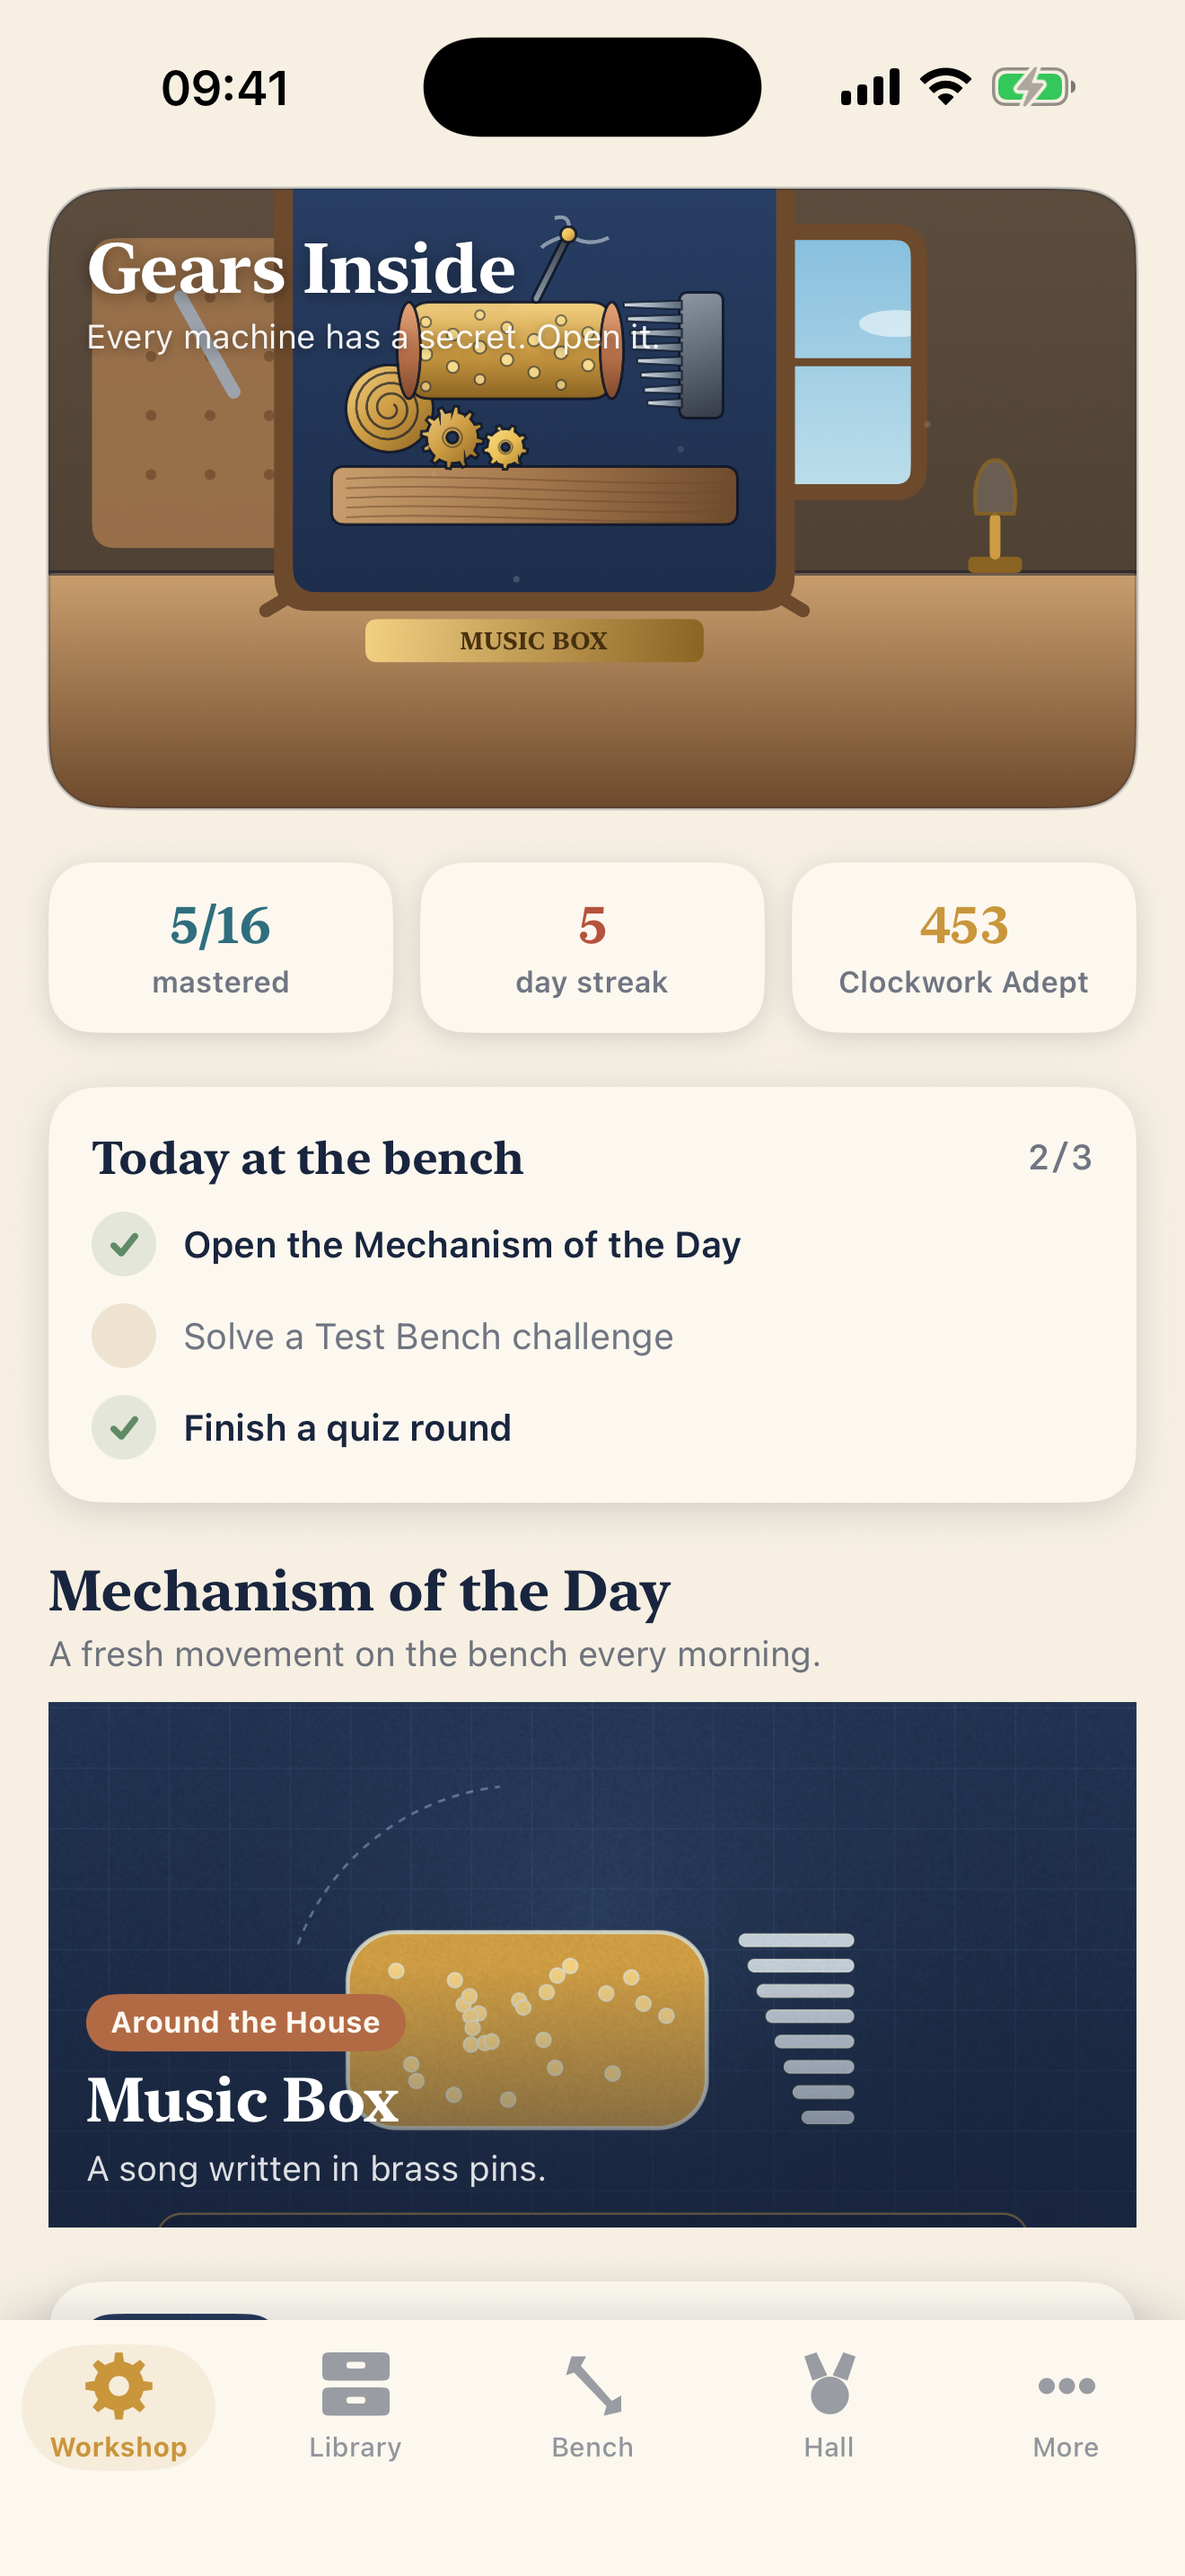
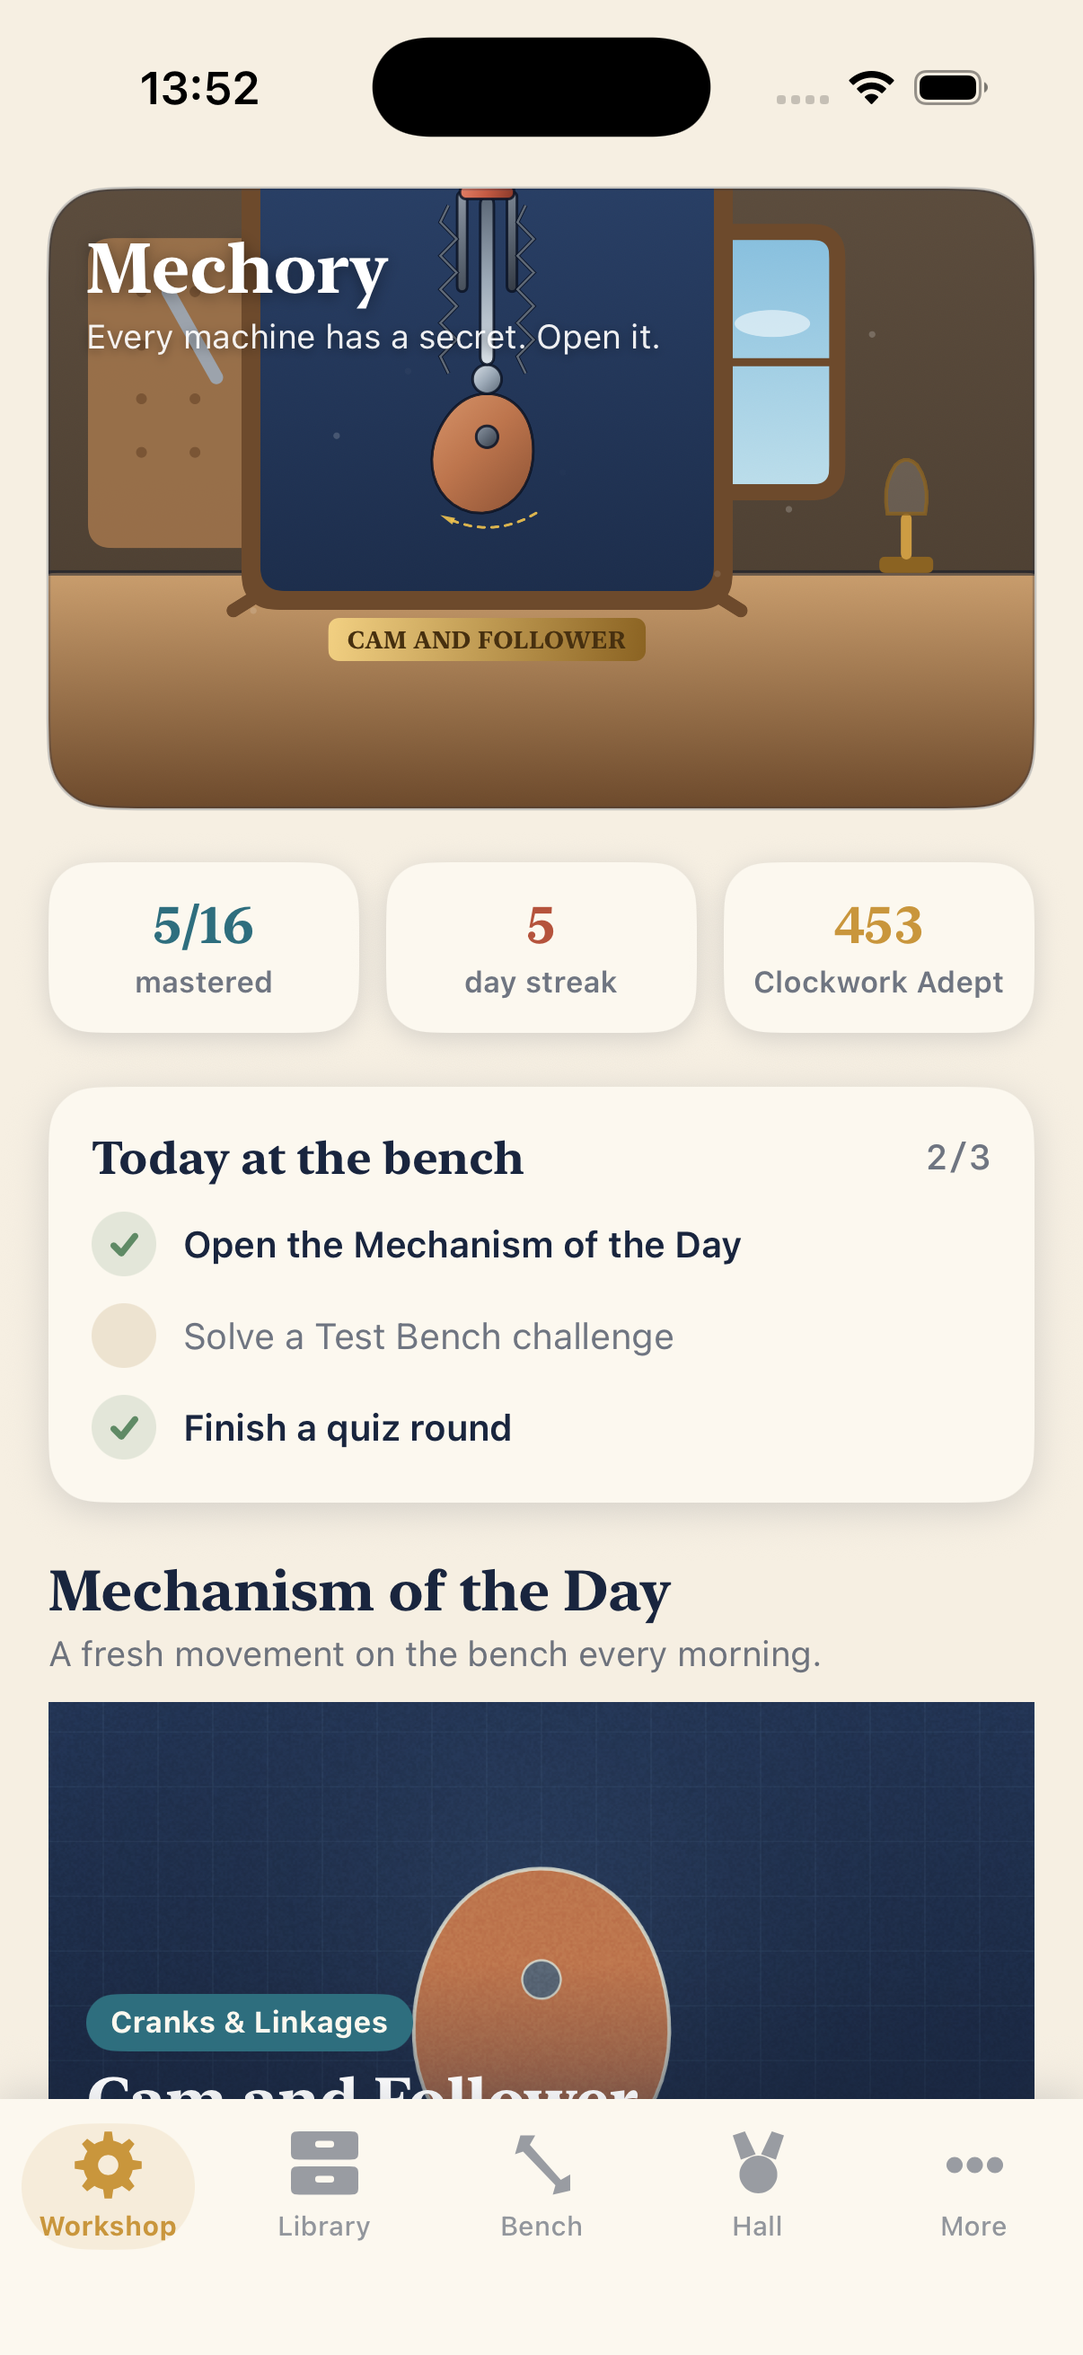
Refresh screenshots for Mechory (name, Support card, privacy page)

diff --git a/Mechory/CogRootView.swift b/Mechory/CogRootView.swift
@@ -36,6 +36,7 @@ struct CogRootView: View {
                     case "quiz": QuizView().environmentObject(store)
                     case "challenge": BenchChallengeView(challenge: BenchChallenge.all[4]).environmentObject(store)
                     case "wing": WingDetailView(wing: .machines).environmentObject(store)
+                    case "privacy": CogPrivacyView()
                     default: GlossaryView()
                     }
                 }
